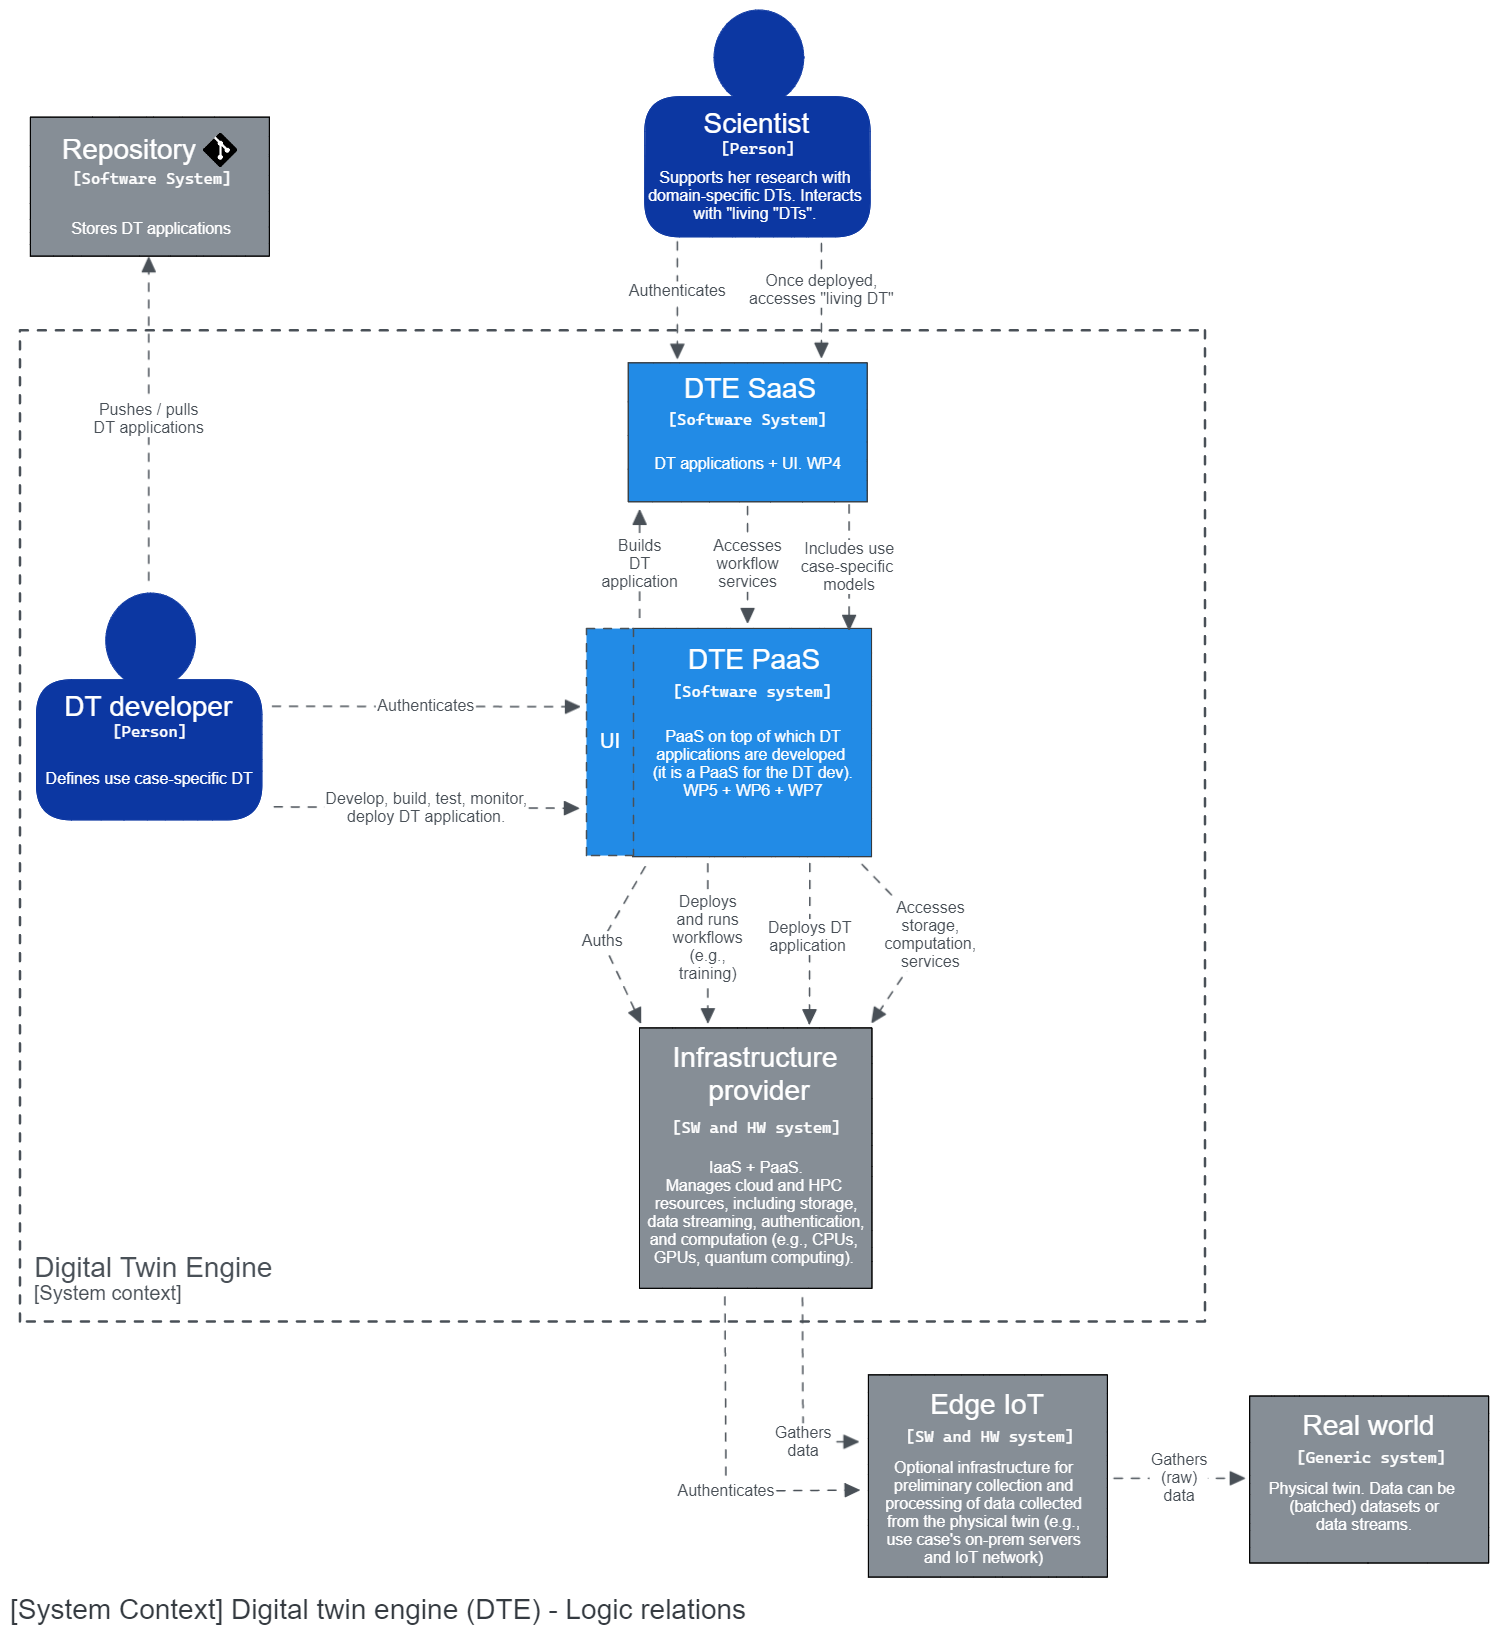
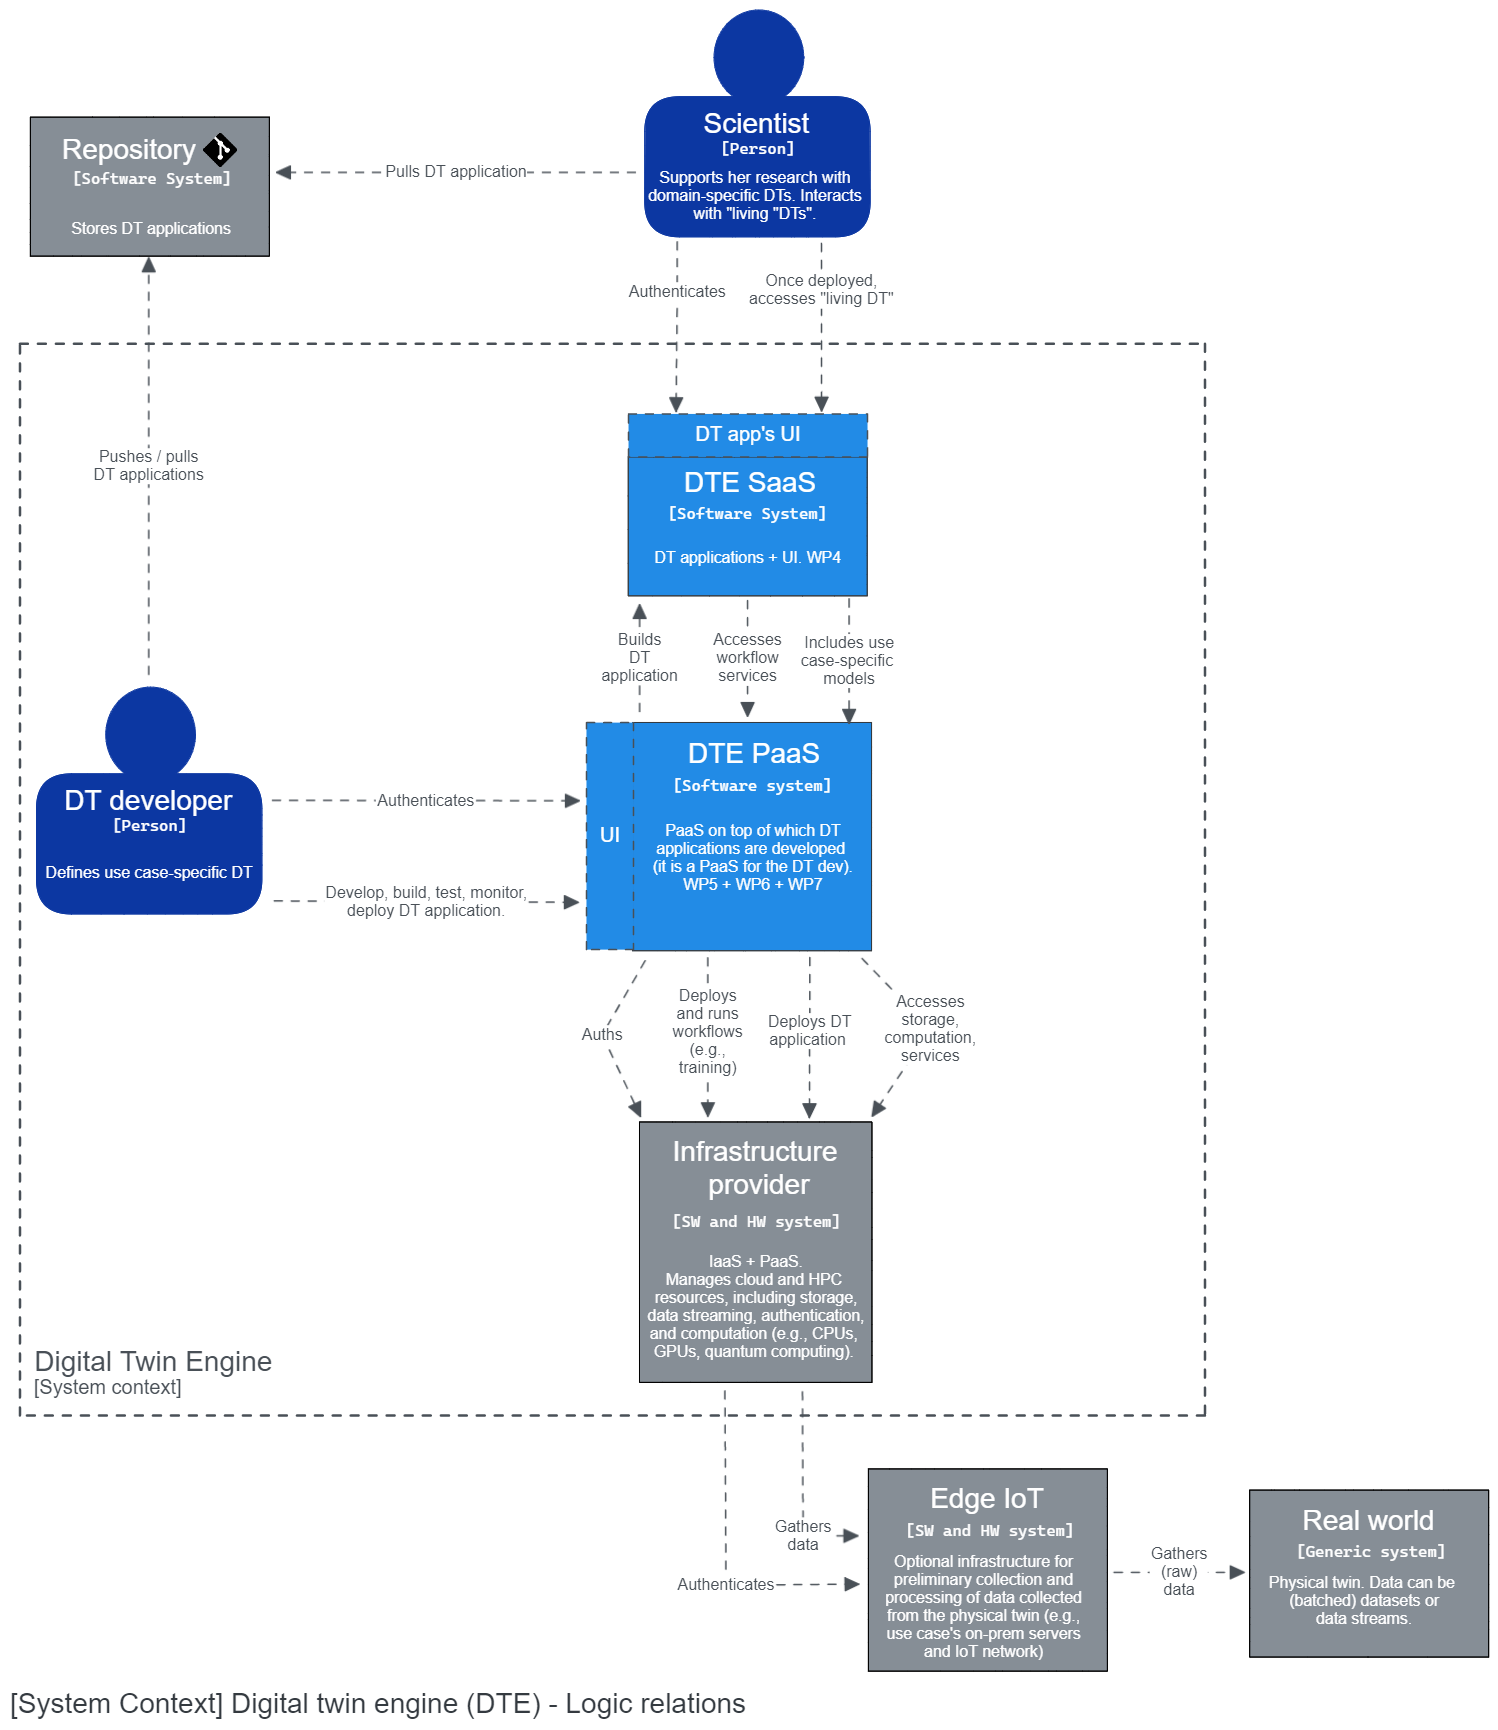
Update C4 diagrams for T6.5

diff --git a/C4 diagrams for T6.5/T6.5 architecture - Conceptual design v2.md b/C4 diagrams for T6.5/T6.5 architecture - Conceptual design v2.md
@@ -1,0 +1,35 @@
+# T6.5 architecture - Conceptual design
+
+This document provides an overview of the conceptual design for T6.5 architecture, from the digital twin engine (DTE) system context to T6.5 components, following a top-down approach. The conceptual design has been organized according to the prescriptions of the [C4 model](https://c4model.com/).
+
+## System context
+
+The system context defines the boundaries of the DTE system, and its interfaces with the surrounding environment.
+
+We identify two main classes of users: DT developers (e.g., WP4) and DT utilizers, namely the scientists using existing DT applications for their research.
+DT developers interact with interTwin PaaS, developing DT applications, and occasionally thematic modules. These modules provide support for new sciences in the DTE, introducing domain-specific tools and best practices, translated into workflows by the underlying workflow composition tool. DT developers respond to researchers needs by creating new DT applications, which are then accessed by scientists as SaaS. An utilizer can choose an "out of the box" DT application and connect it to its use case (physical twin), or she can optionally re-train it when this is needed. Interactions between scientists and DT application are mediated by a further UI, provided by the specific DT application. 
+
+The infrastructure provider, which is part of the DTE, provides computational resources, storage, and the connection with the physical twin, living in the real world. Sometimes, this connection is mediated by an intermediate IoT infrastructure (e.g., satellite, particles detector sensors), which may be needed to filter, pre-process or buffer real-time data collected from the physical twin, and it is usually located close to the use case (e.g., on-prem servers).
+
+![System context|100%](System%20context.png)
+
+---
+## Containers in the DTE
+
+The DT developer interacts with the DTE PaaS through some UI, which is strongly related to the DTE-core orchestrator, the *advanced workflow composition*. This module allows the DT developer to define, deploy, and run  data-processing workflows which constitute a DT application. Therefore, the workflow composition is strongly related with its counterparts living in the infrastructure (e.g., K8s).
+
+A workflow is a directed acyclic graph (DAG) of data processing operations, which can be implemented either through DTE's bulti-in modules, or via user-defined modules. In fact, the DTE already provides functionalities common to many DT scenarios, like ML training, data streaming, quality assessment, visualization, big data processing, data fusion, and more.
+The workflow composition tool is responsible for orchestrating the execution of all the modules composing a workflow, including domain-specific tools introduced by some thematic module (e.g., Geant4, HydroMT). Most likely, the steps of a workflow need to access computation and storage resources made available by some infrastructure provider. This is mediated by some abstraction framework (e.g., Spark, OpenEO).  
+
+![dte core containers|100%](dte%20core%20containers.png)
+
+---
+## Components of the AI container (T6.5)
+
+The AI subsystem in the proposed DTE is intended for data-driven DT models, and is mainly devoted to two macro operations: training and deployment of ML models.
+
+Training an ML model involves loading some (pre-processed) dataset from the storage, and splitting it into training and validation splits. In the case of online learning, the training dataset is a stream. The DT developer inputs the details of the ML model from the PaaS UI (e.g., the thematic module), including the loss function, evaluation metrics, neural network architecture, optimizer type, etc. The user can choose among a collection of tools for both distributed training (e.g., Horovod, RaySGD), and hyper parameter optimization (HPO). Once a model is trained, its performances are assesses on the validation dataset (ML-level validation). ML logs (e.g., metrics) are saved on disk and made available to the user for future inspection by means of the "metrics logger", whereas the best models are saved in the "models registry".
+
+Once an ML model passes domain-specific validation, performed by the "Quality and validation" DTE's module, it can be deployed. The user chooses a pre-trained ML model from the model registry, which is going to be served as a step in the inference workflow. There may be multiple versions available for the same ML model, and the user can choose which version to deploy as the "living" DT. Once the full DT is deployed as a workflow, it can process real-time streams of data from the real world, and the experimenter can interact with it (e.g., performing experiments).
+
+![ai ml container|100%](ai%20ml%20container.png)
